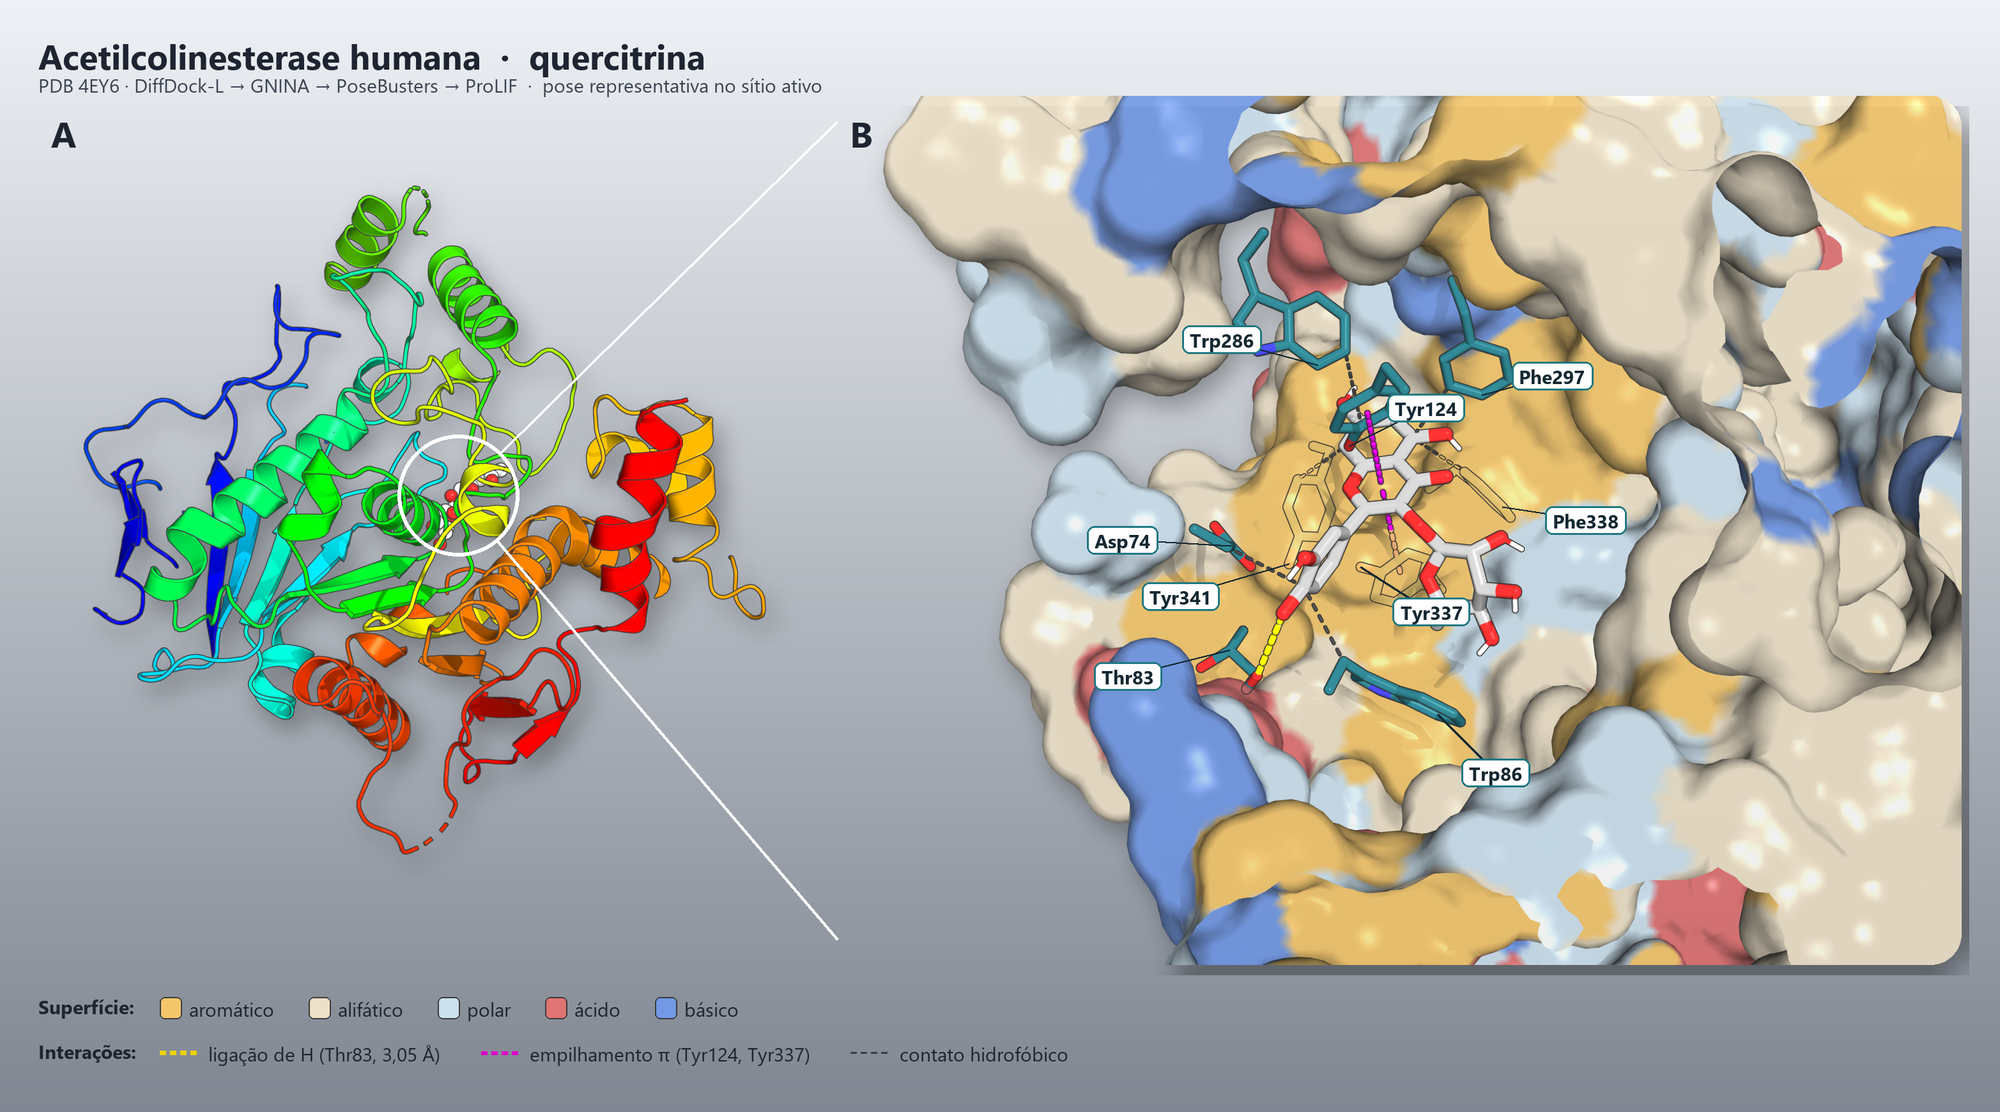
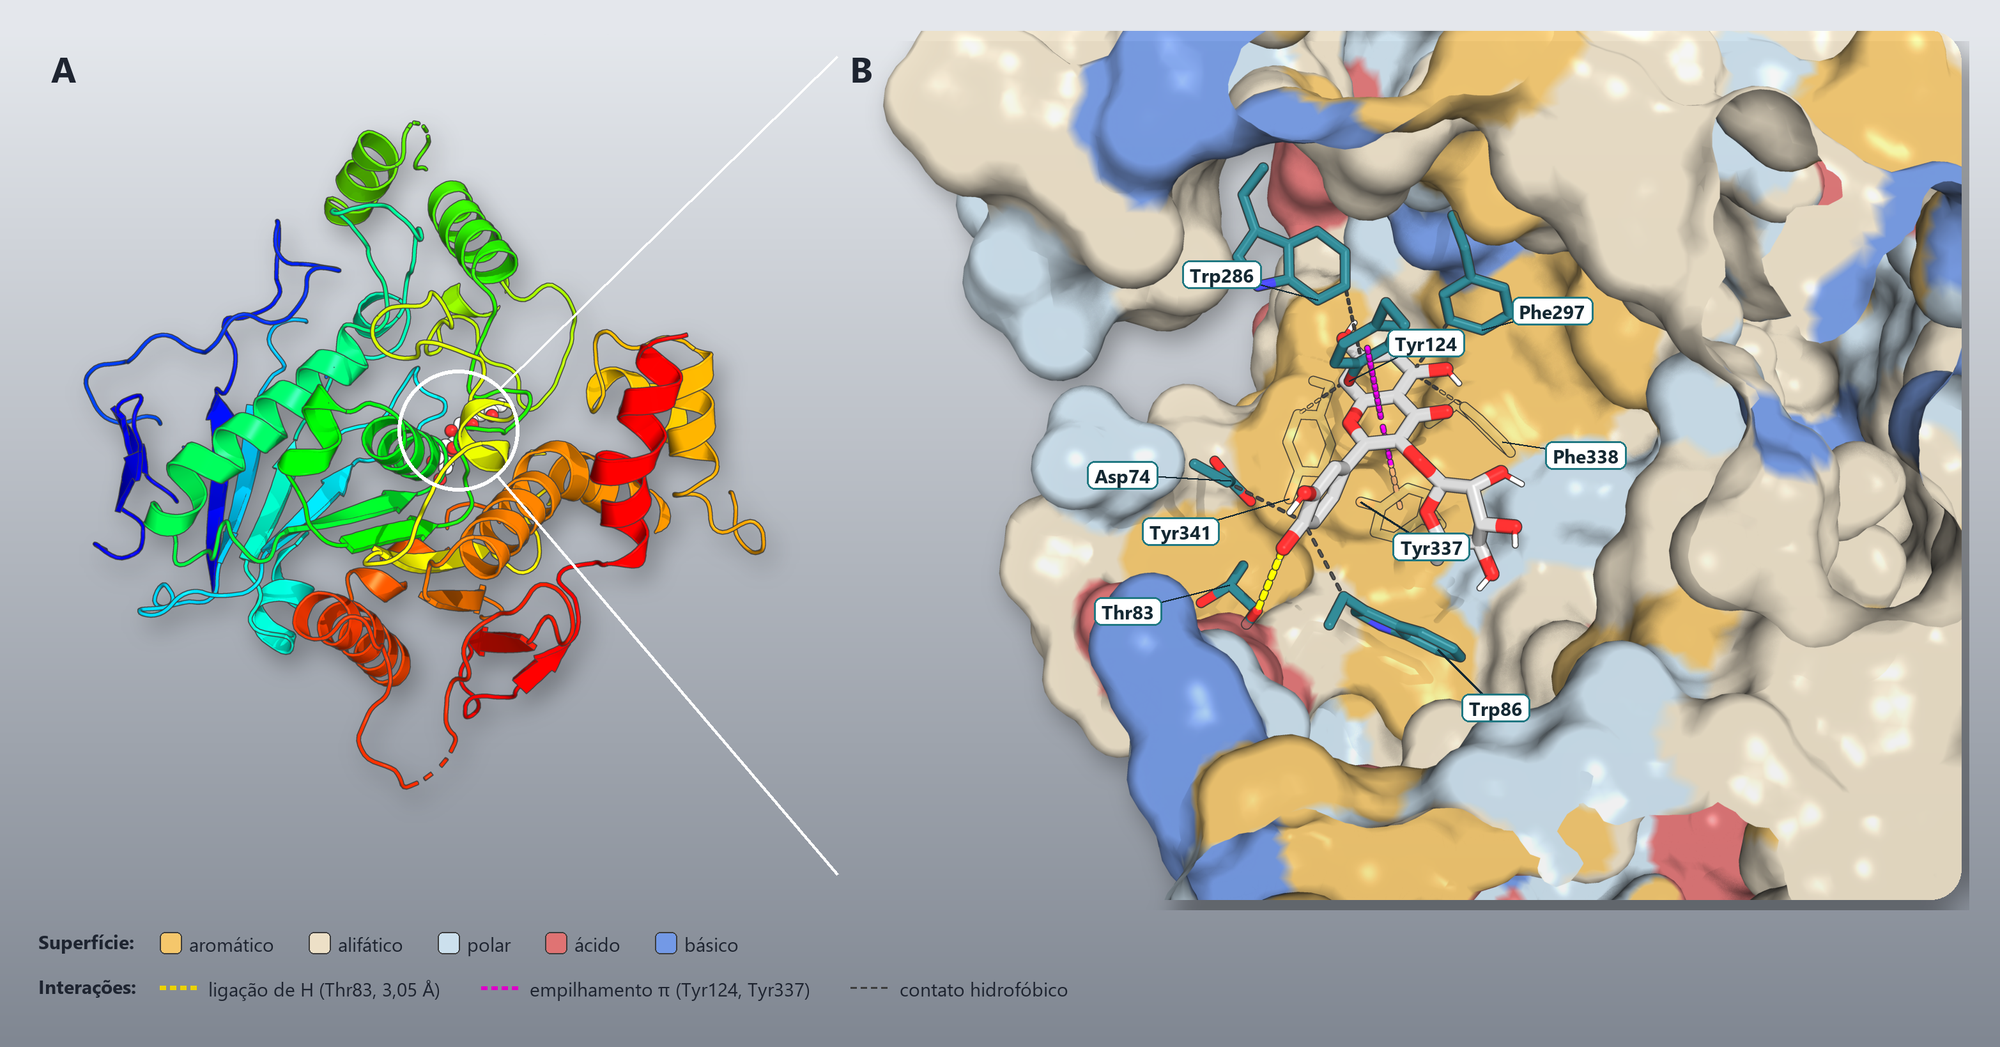
README: crop hero figure to panels A/B and revise caption against ProLIF data

diff --git a/README.md b/README.md
@@ -10,10 +10,13 @@
 </p>
 
 <p align="center"><sub>
-<b>Exemplo de resultado.</b> (A) Acetilcolinesterase humana (PDB 4EY6) com a quercitrina na garganta do sítio ativo.
-(B) Corte da superfície do bolso, colorida por tipo de resíduo, com os resíduos de ancoragem em destaque e as interações
-identificadas pelo ProLIF: ligação de hidrogênio do anel catecol com Thr83 (amarelo), empilhamento π com Tyr124/Tyr337
-(magenta) e contatos hidrofóbicos (cinza). Figura gerada pelo agente com PyMOL open-source.
+<b>Exemplo de resultado: quercitrina na acetilcolinesterase humana (PDB 4EY6).</b>
+(A) A enzima inteira, colorida do N- ao C-terminal; o círculo marca a garganta do sítio ativo, onde fica a pose selecionada.
+(B) Corte da superfície do bolso, colorida por tipo de resíduo, com os resíduos que tocam o ligante. As interações foram
+tipificadas pelo ProLIF no receptor protonado em pH 7,4: ligação de hidrogênio da hidroxila do catecol (anel B) com Thr83
+(3,05 Å; ângulo D–H···A de 170°), empilhamento π do anel C com Tyr124 e Tyr337 e contatos hidrofóbicos com Asp74, Trp86,
+Trp286, Phe297, Phe338 e Tyr341. A pose é uma hipótese estrutural do docking, não uma medida experimental.
+Figura gerada pelo agente com PyMOL open-source.
 </sub></p>
 
 ---
